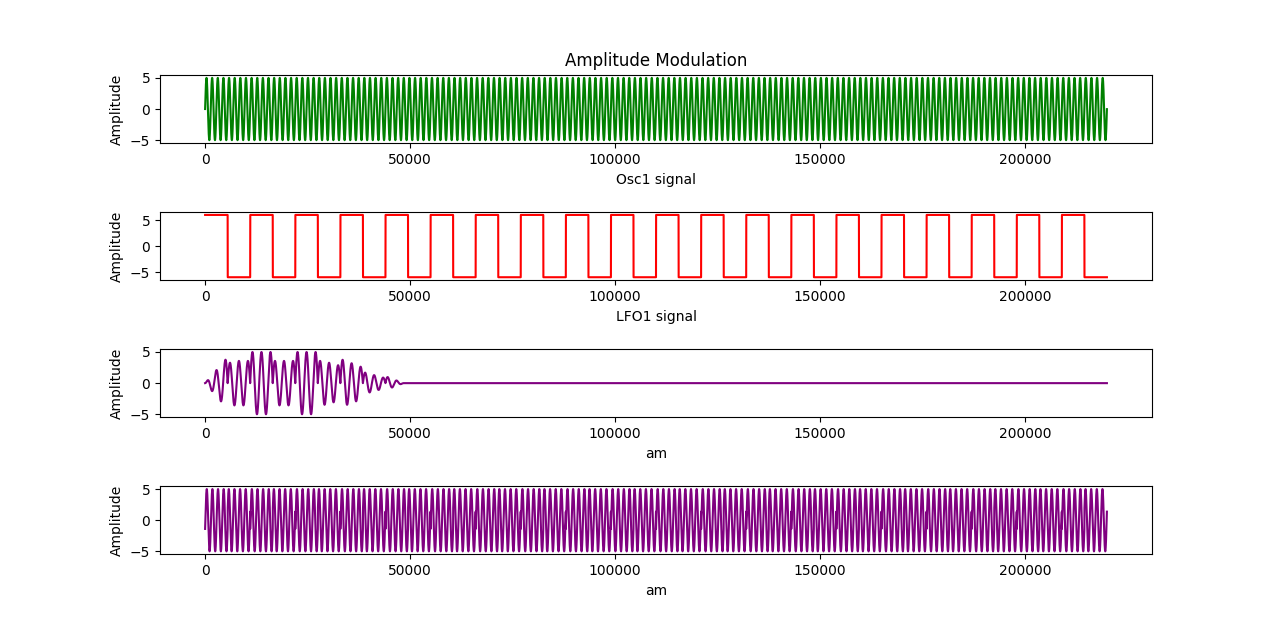
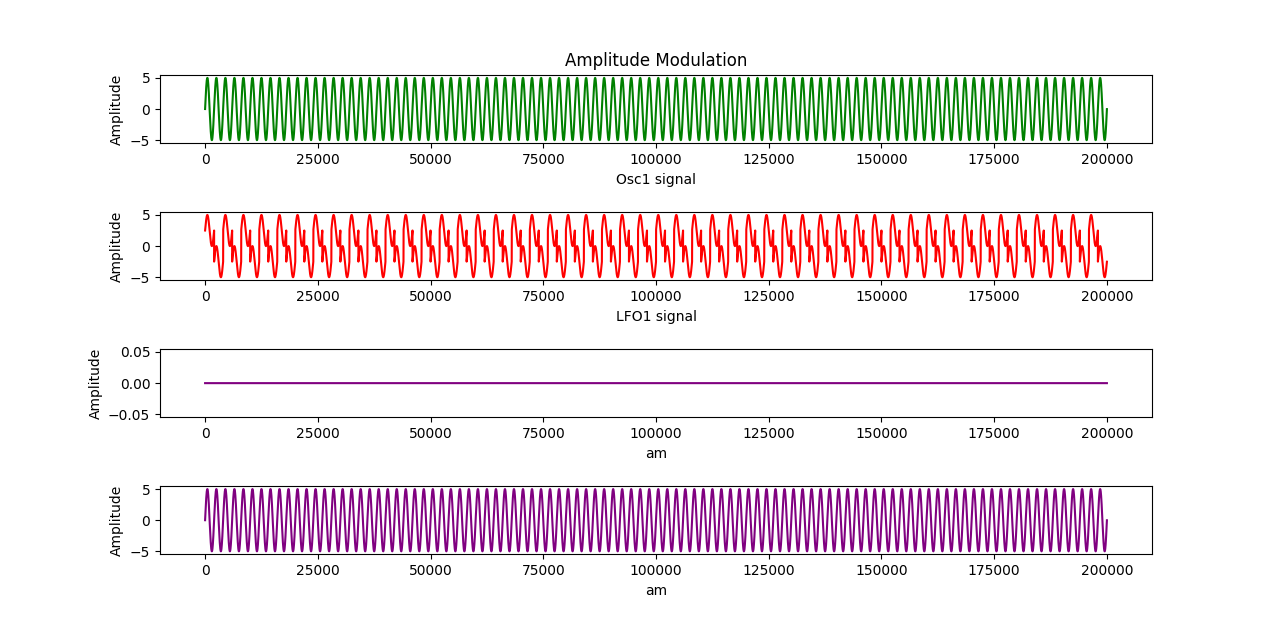
WaveAdder and StereoPanner added

diff --git a/main.py b/main.py
@@ -54,24 +54,21 @@
 # plt.legend(loc='lower right')
 # plt.show()
 # fig.savefig("sine.jpg")
-import math
 
 import numpy as np
 import matplotlib.pyplot as plt
 from scipy.io import wavfile
 import time
+from Modifiers.WaveAdder import WaveAdder as wa
+from Modifiers.Panner import StereoPanner as sp
 
 #Carrier wave c(t)=A_c*cos(2*pi*f_c*t)
 #Modulating wave m(t)=A_m*cos(2*pi*f_m*t)
 #Modulated wave s(t)=A_c[1+mu*cos(2*pi*f_m*t)]cos(2*pi*f_c*t)
-from Modulation.Modulation import Modulation
+from Modulation.ParamsModulation import Modulation
 from Modulators.Envelope import Envelope
 from Modulators.LFO import LFO
 from Oscillators.Oscillator import Oscillator, Type
-from Oscillators.SawtoothOscillator import SawtoothOscillator
-from Oscillators.SineOscillator import SineOscillator
-from Oscillators.SquareOscillator import SquareOscillator
-from Oscillators.TriangleOscillator import TriangleOscillator
 
 A_c = 5#float(input('Enter carrier amplitude: '))
 f_c = 25#float(input('Enter carrier frquency: '))
@@ -79,21 +76,17 @@ A_m = 5#float(input('Enter message amplitude: '))
 f_m = 1#float(input('Enter message frquency: '))
 modulation_index = 6#float(input('Enter modulation index: '))
 
-sample_rate = 22000
+render_rate = 20000
 
 print('done')
-# lfo = LFO(SawtoothOscillator(f_m, A_m, sample_rate),modulation_index)
-# oscillator = SineOscillator(f_c, A_c, sample_rate)
-# carrier2 = SineOscillator(523.36,A_c,sample_rate)
-# envelope = Envelope(0.3,0.2,0.8,0.9,1,sample_rate)
 
-lfo = LFO(Oscillator(Type.square,sample_rate),modulation_index)
-oscillator = Oscillator(Type.sine,sample_rate)
-envelope = Envelope(0.3,0.2,0.8,0.9,1,sample_rate)
+lfo = LFO(Oscillator(Type.square,render_rate),modulation_index)
+oscillator = Oscillator(Type.sine,render_rate)
+envelope = Envelope(0.3,0.2,0.8,0.9,1,render_rate)
 
-oscillator2=Oscillator(Type.sine,sample_rate)
-lfo2=LFO(Oscillator(Type.triangle,sample_rate),3)
-envelope2 = Envelope(0.3,0.2,0.8,0.9,1,sample_rate)
+oscillator2=Oscillator(Type.square,render_rate)
+lfo2=LFO(Oscillator(Type.triangle,render_rate),3)
+envelope2 = Envelope(0.3,0.2,0.8,0.9,1,render_rate)
 print('done')
 
 osc1 = []
@@ -102,9 +95,9 @@ lfo_1 = []
 lfo_2 = []
 env = []
 
-for t in range(0,10*sample_rate):
-    osc1.append(oscillator.get_next_sample(5, 16, t))
-    osc2.append(oscillator2.get_next_sample(5, 200, t))
+for t in range(0,10*render_rate):
+    osc1.append(oscillator.get_next_sample(5, 10, t))
+    osc2.append(oscillator2.get_next_sample(5, 5, t))
     lfo_1.append(lfo.get_next_value(2,t))
     lfo_2.append(lfo2.get_next_value(3,t))
     env.append(envelope.get_next_value(t))
@@ -116,19 +109,20 @@ product_am1 = []
 product_am2 = []
 product_pm1 = []
 product_fm1 = []
+sum = []
+stereo_l = []
+stereo_r = []
 
 t1 = time.time()
-for t in range(0,10*sample_rate):
+for t in range(0,10*render_rate):
     pass
     oscillator1_next = oscillator.get_next_sample(5, 10, t)
     lfo1_next = lfo.get_next_value(2,t)
     env1_next = envelope.get_next_value(t)
     #
-    oscillator2_next = oscillator2.get_next_sample(5, 200, t)
+    oscillator2_next = oscillator2.get_next_sample(5, 5, t)
     lfo2_next = lfo2.get_next_value(3,t)
     env2_next = envelope2.get_next_value(t)
-
-    # product_am.append((1 + modulation_index*modulator_next/A_m)*carrier_next)
 
     product_am1.append(Modulation.am_lfo_modulation(oscillator1_next, lfo1_next, lfo.index))
     product_am1[t] = Modulation.am_envelope_modulation(product_am1[t], env1_next)
@@ -136,13 +130,15 @@ for t in range(0,10*sample_rate):
     product_am2.append(Modulation.am_lfo_modulation(oscillator2_next, lfo2_next, lfo2.index))
     product_am2[t] = Modulation.am_envelope_modulation(product_am2[t],env2_next)
 
-    product_pm1.append(Modulation.pm_lfo_modulation(oscillator, 5, 16, lfo1_next, t, sample_rate))
+    product_pm1.append(Modulation.pm_lfo_modulation(oscillator, 5, 16, lfo1_next, t, render_rate))
 
-    product_fm1.append(Modulation.fm_lfo_modulation(oscillator, 5, 32, lfo1_next, t, sample_rate))
+    product_fm1.append(Modulation.fm_lfo_modulation(oscillator, 5, 32, lfo1_next, t))
 
-    # time = np.linspace(0,int(carrier.sample_rate/carrier_next.frequency),int(self.sample_rate/self.frequency))
-    # product_fm.append(np.cos(2*np.pi*f_c*t + modulation_index*lfo_next/A_m))
-    # product_fm.append(Modulation.pm_lfo_modulation(oscillator, lfo1_next, lfo.index, t, sample_rate))
+    sum.append(wa.get_sum(oscillator1_next, oscillator2_next, 0.5))
+
+    stereo_l.append(sp.get_stereo_sample(oscillator1_next,1)[0])
+    stereo_r.append(sp.get_stereo_sample(oscillator1_next,1)[1])
+
 print(" Total time taken is :", time.time() - t1)
 print('done')
 
@@ -174,17 +170,17 @@ plt.ylabel('Amplitude')
 plt.xlabel('Osc1 signal')
 
 plt.subplot(4,1,2)
-plt.plot(lfo_1, 'r')
+plt.plot(sum, 'r')
 plt.ylabel('Amplitude')
 plt.xlabel('LFO1 signal')
 
 plt.subplot(4,1,3)
-plt.plot(product_am1, color="purple")
+plt.plot(stereo_l, color="purple")
 plt.ylabel('Amplitude')
 plt.xlabel('am')
 
 plt.subplot(4,1,4)
-plt.plot(product_pm1, color="purple")
+plt.plot(stereo_r, color="purple")
 plt.ylabel('Amplitude')
 plt.xlabel('am')
 
@@ -218,7 +214,7 @@ def wave_to_file(wav, wav2=None, fname="temp.wav", amp=0.01):
         wav2 = to_16(wav2, amp)
         wav = np.stack([wav, wav2]).T
 
-    wavfile.write(fname, sample_rate, wav)
+    wavfile.write(fname, render_rate, wav)
 
 # wave_to_file(product_am,product_am2, fname="c_maj7.wav")
 

diff --git a/Modulators/Envelope.py b/Modulators/Envelope.py
@@ -1,21 +1,17 @@
-from Modulators.BaseModulator import Modulator
 import numpy as np
 
-class Envelope(Modulator):
+class Envelope():
     def __init__(self, attack_duration, decay_duration, sustain_duration, release_duration,
-                 sustain_level, sample_rate):
-        self.attack_len = int(attack_duration*sample_rate)
-        self.decay_len = int(decay_duration*sample_rate)
-        self.sustain_len = int(sustain_duration*sample_rate)
-        self.release_len = int(release_duration*sample_rate)
+                 sustain_level, render_rate):
+        self.attack_len = int(attack_duration*render_rate)
+        self.decay_len = int(decay_duration*render_rate)
+        self.sustain_len = int(sustain_duration*render_rate)
+        self.release_len = int(release_duration*render_rate)
         self.len = self.attack_len+self.decay_len+self.sustain_len+self.release_len
         self.sustain_level = sustain_level
-        self.sample_rate = sample_rate
+        self.render_rate = render_rate
 
         self.values = self.get_values()
-
-        self.seconds = 0
-        self.sample = 0
 
     def get_values(self):
         att=self.get_attack_values()
@@ -46,24 +42,7 @@ class Envelope(Modulator):
         return np.linspace(self.sustain_level, 0, self.release_len)
 
     def get_next_value(self,time):
-        # if(self.sample == self.sample_rate):
-        #     self.seconds += 1
-        #     self.sample = 0
-        # index = self.seconds*self.sample_rate+self.sample
-        # self.sample+=1
-        # if index >= self.len:
-        #     return 0
-        # return self.values[index]
-        # index = self.sample
-        # self.sample+=1
-        # if index >= self.len:
-        #     return 0
-        # return self.values[index]
         if time >= self.len:
             return 0
         return self.values[time]
 
-
-    def set_time_to_null(self):
-        self.seconds = 0
-        self.sample = 0

diff --git a/Oscillators/Oscillator.py b/Oscillators/Oscillator.py
@@ -10,35 +10,14 @@ class Type(enum.Enum):
 
 class Oscillator:
 
-    def __init__(self, type : Type, sample_rate):
+    def __init__(self, type : Type, render_rate):
         self.type = type.value
-        self.wave_generator = WaveGenerator(sample_rate)
-        self.sample_rate = sample_rate
+        self.wave_generator = WaveGenerator(render_rate)
+        self.render_rate = render_rate
 
     def get_next_sample(self,amplitude,frequency,time):
-        t = (int)((frequency*time)%self.sample_rate)
+        t = (int)((frequency*time)%self.render_rate)
         wave = self.wave_generator.waves[self.type]
         return amplitude*wave[t]
-        # wave=0
-        # if(type == 1):
-        #     wave = self.wave_generator.sine_wave
-        # elif(type == 2):
-        #     wave = self.wave_generator.square_wave
-        # elif(type==3):
-        #     wave = self.wave_generator.sawtooth_wave
-        # else:
-        #     wave = self.wave_generator.triangle_wave
-        # return amplitude*wave[t]
 
-
-        # if(self.sample == self.sample_rate):
-        #     self.seconds += 1
-        #     self.sample = 0
-        # index = self.seconds*self.sample_rate+self.sample
-        # index = index % len(self.period_values)
-        # self.sample+=1
-        # index = self.sample % len(self.period_values)
-        # self.sample+=1
-        # return self.period_values[index]
-        # return self.period_values[time % len(self.period_values)]
 

diff --git a/Oscillators/WaveGenerator.py b/Oscillators/WaveGenerator.py
@@ -2,9 +2,9 @@ import numpy as np
 from scipy import signal
 
 class WaveGenerator:
-    def __init__(self, sample_rate):
-        self.sample_rate = sample_rate
-        self.t = np.linspace(0,1,int(self.sample_rate),endpoint=False)
+    def __init__(self, render_rate):
+        self.render_rate = render_rate
+        self.t = np.linspace(0,1,int(self.render_rate),endpoint=False)
         self.waves = self.get_waves()
         self.sine_wave = self.get_sine_wave()
         self.square_wave = self.get_square_wave()
@@ -32,7 +32,7 @@ class WaveGenerator:
         return values
 
     def get_sawtooth_wave(self):
-        # period_len = int(self.sample_rate/self.frequency)
+        # period_len = int(self.render_rate/self.frequency)
         # t = np.linspace(-period_len/2,period_len/2,period_len)
         # return -2*self.amplitude/(period_len)*t
         return signal.sawtooth(2*np.pi*self.t, 0)

diff --git a/Modulation/ParamsModulation.py b/Modulation/ParamsModulation.py
@@ -1,0 +1,24 @@
+from scipy import signal
+import numpy as np
+
+class Modulation:
+    @staticmethod
+    def am_lfo_modulation(osc_val,mod_val,mod_index):
+        return (1+mod_val)*osc_val/(int(mod_index)+1)
+
+    @staticmethod
+    def am_envelope_modulation(osc_val,mod_val):
+        return mod_val*osc_val
+
+    @staticmethod
+    def pm_lfo_modulation(osc,amplitude,frequency,mod_val,time,render_rate):
+        delta = render_rate * mod_val / (2*np.pi*frequency)
+        return osc.get_next_sample(amplitude,frequency,time+delta)
+
+    @staticmethod
+    def fm_lfo_modulation(osc,amplitude,frequency,mod_val,time):
+        return osc.get_next_sample(amplitude,frequency,time*(1+mod_val/frequency))
+
+    @staticmethod
+    def fm_envelope_modulation(osc_val,mod_val):
+        return mod_val*osc_val

diff --git a/Modifiers/Panner.py b/Modifiers/Panner.py
@@ -1,0 +1,12 @@
+
+class StereoPanner:
+
+    '0 <= index <= 1'
+    @staticmethod
+    def get_stereo_sample(sample, index=0):
+        # stereo_sample = [(1+index)*sample,(1-index)*sample]
+        # left_sample = (1+index)*sample
+        # right_sample = (1-index)*sample
+        # stereo_sample.append(left_sample)
+        # stereo_sample.append(right_sample)
+        return [(1-index)*sample, index*sample]

diff --git a/Modifiers/WaveAdder.py b/Modifiers/WaveAdder.py
@@ -1,0 +1,7 @@
+
+class WaveAdder:
+
+    '0 <= index <= 1'
+    @staticmethod
+    def get_sum(first_sample, second_sample, index=0):
+        return ((1-index)*first_sample + index*second_sample)

diff --git a/Modulators/LFO.py b/Modulators/LFO.py
@@ -1,7 +1,4 @@
-from Modulators.BaseModulator import Modulator
-
-
-class LFO(Modulator):
+class LFO():
     def __init__(self, osc, index):
         self.lfo_osc = osc
         self.index = index
